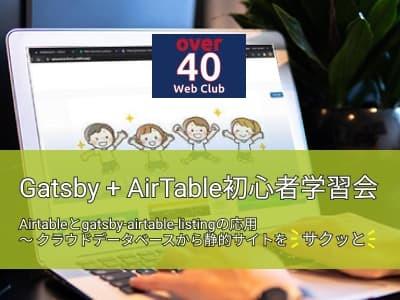
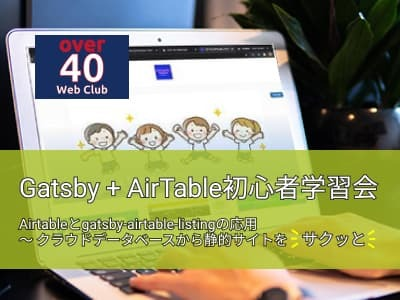
thumbnails updated, latest event information updated

Changed region(s): [[0.36, 0.09, 0.63, 0.33], [0.06, 0.09, 0.33, 0.33]]

diff --git a/content/sections/2-Portfolio.ja.md b/content/sections/2-Portfolio.ja.md
@@ -7,9 +7,9 @@ portfolios: [
   {
     imageFileName: "portfolio/05-thumbnail.jpg",
     imageFileNameDetail: "portfolio/05-thumbnail.jpg",
-    header: "無料でデプロイしてみよう",
-    subheader: "[予告] Connpass イベント②",
-    content: "✨",
+    header: "無料でデプロイしてみよう。初学者でもサクッとできる方法を紹介します。",
+    subheader: "[予告] Connpass イベント② 勉強会ドリブン学習法の理念のもと、ウェブ制作学習者による学習会です。",
+    content: "✨✨✨**[Connpassイベント会場はこちら](https://over40webclub.connpass.com/event/204362/)**✨✨✨",
     extraInfo: ["日付： 3月6日(土)", "司会： yoko", "講師： そんほんす", "運営： ピータン、N.KAZU","カテゴリ： サイト制作、デプロイ"]
   },
   {
